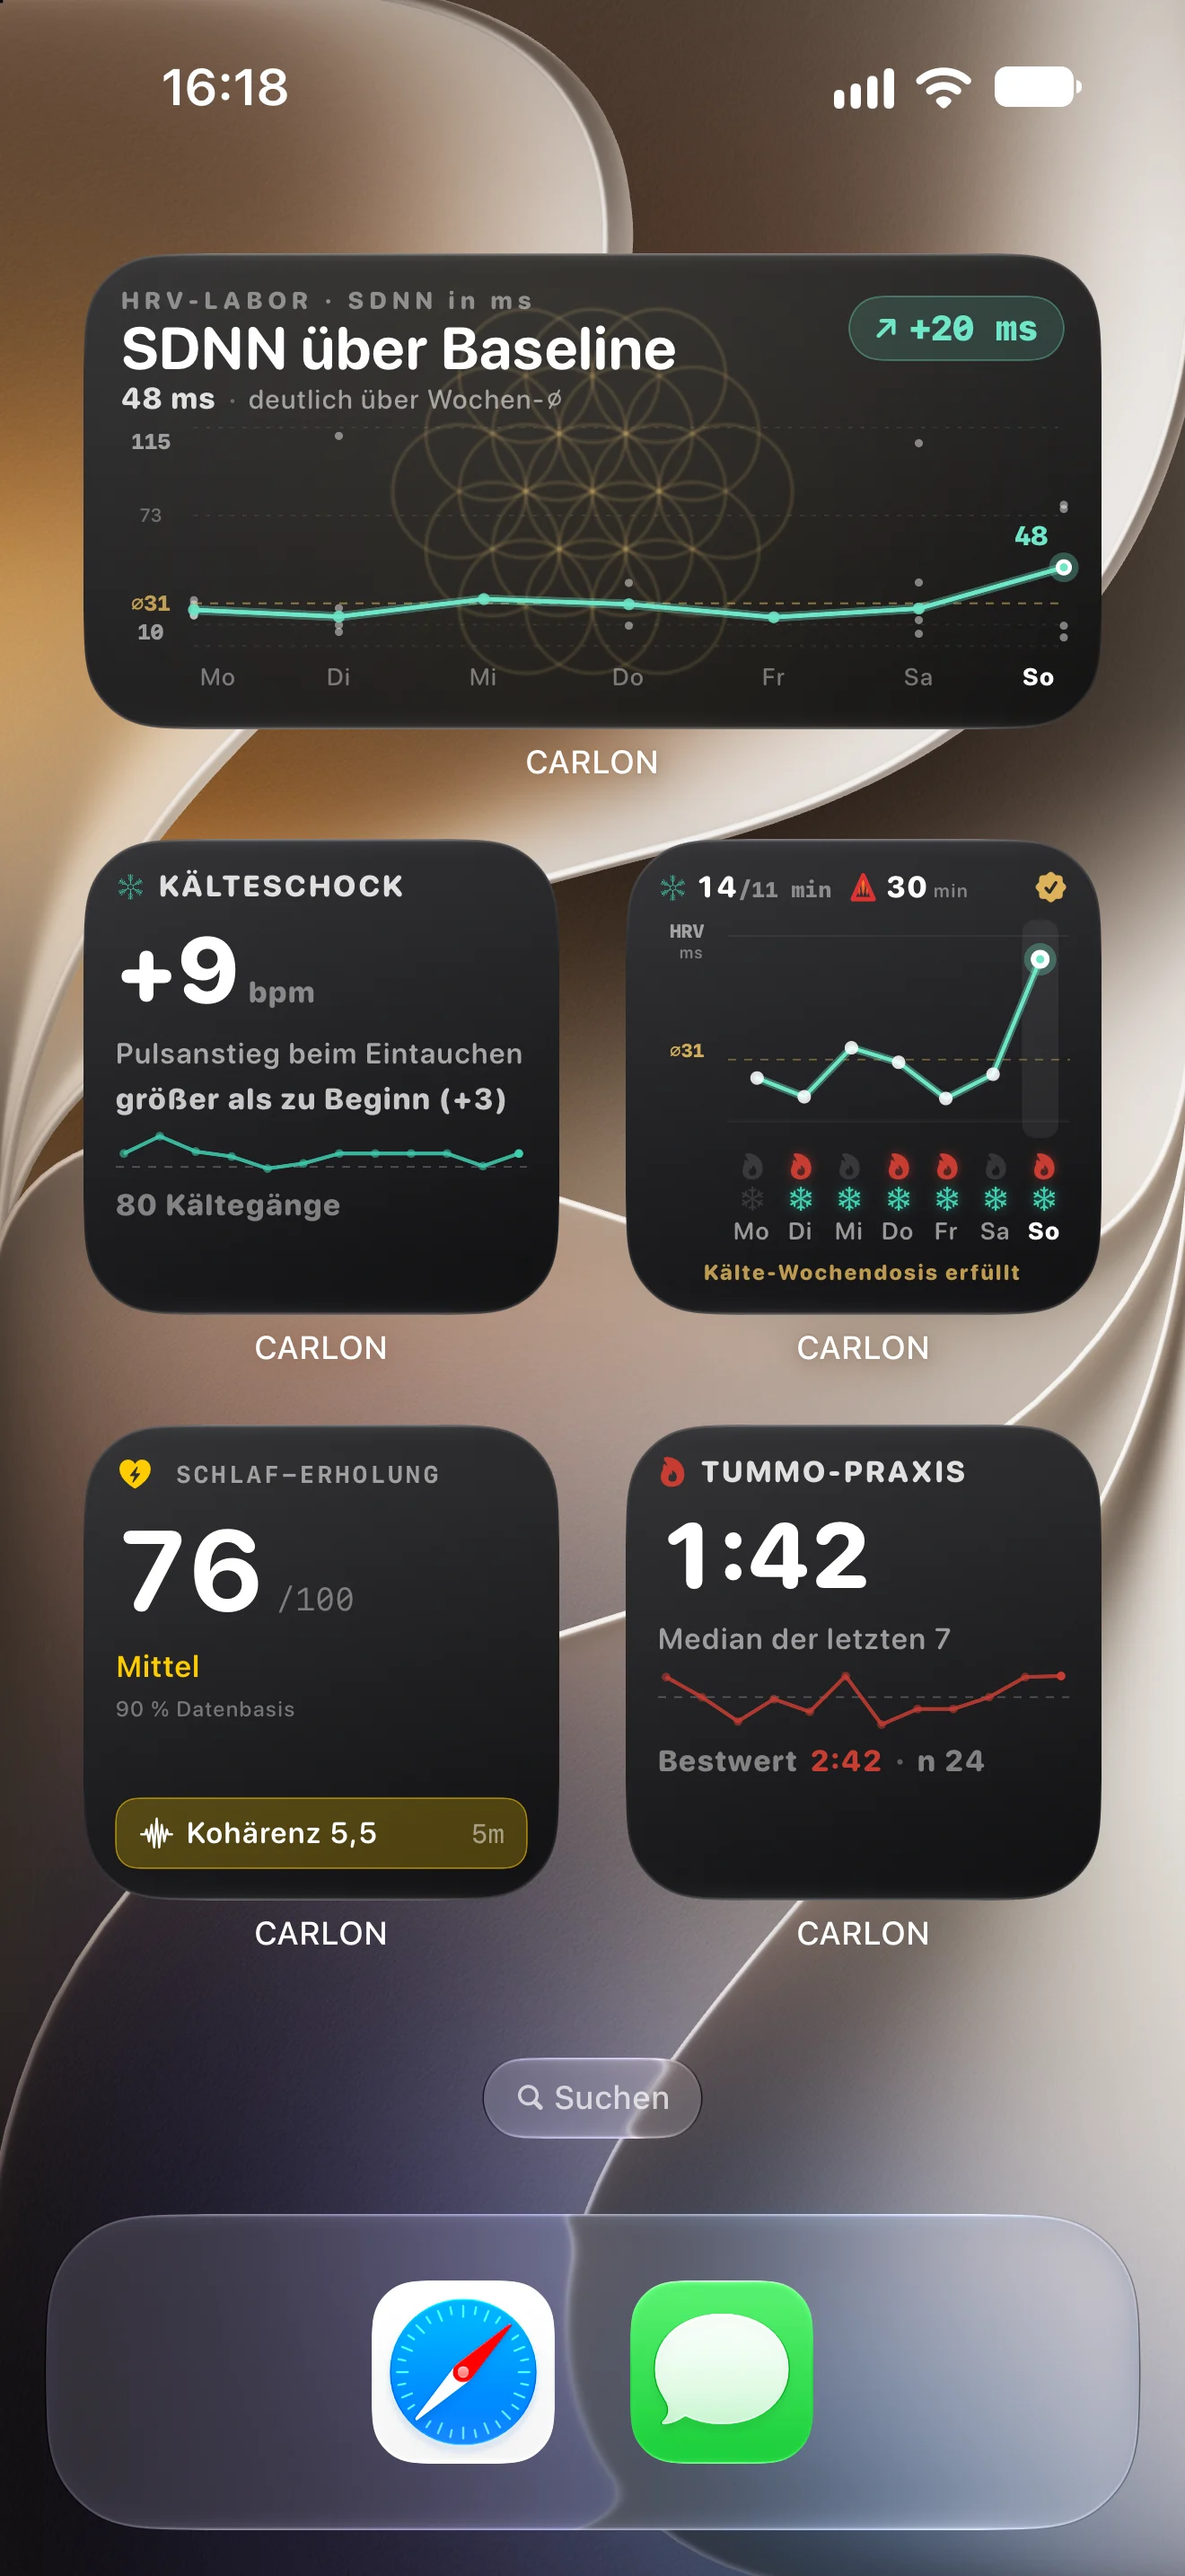
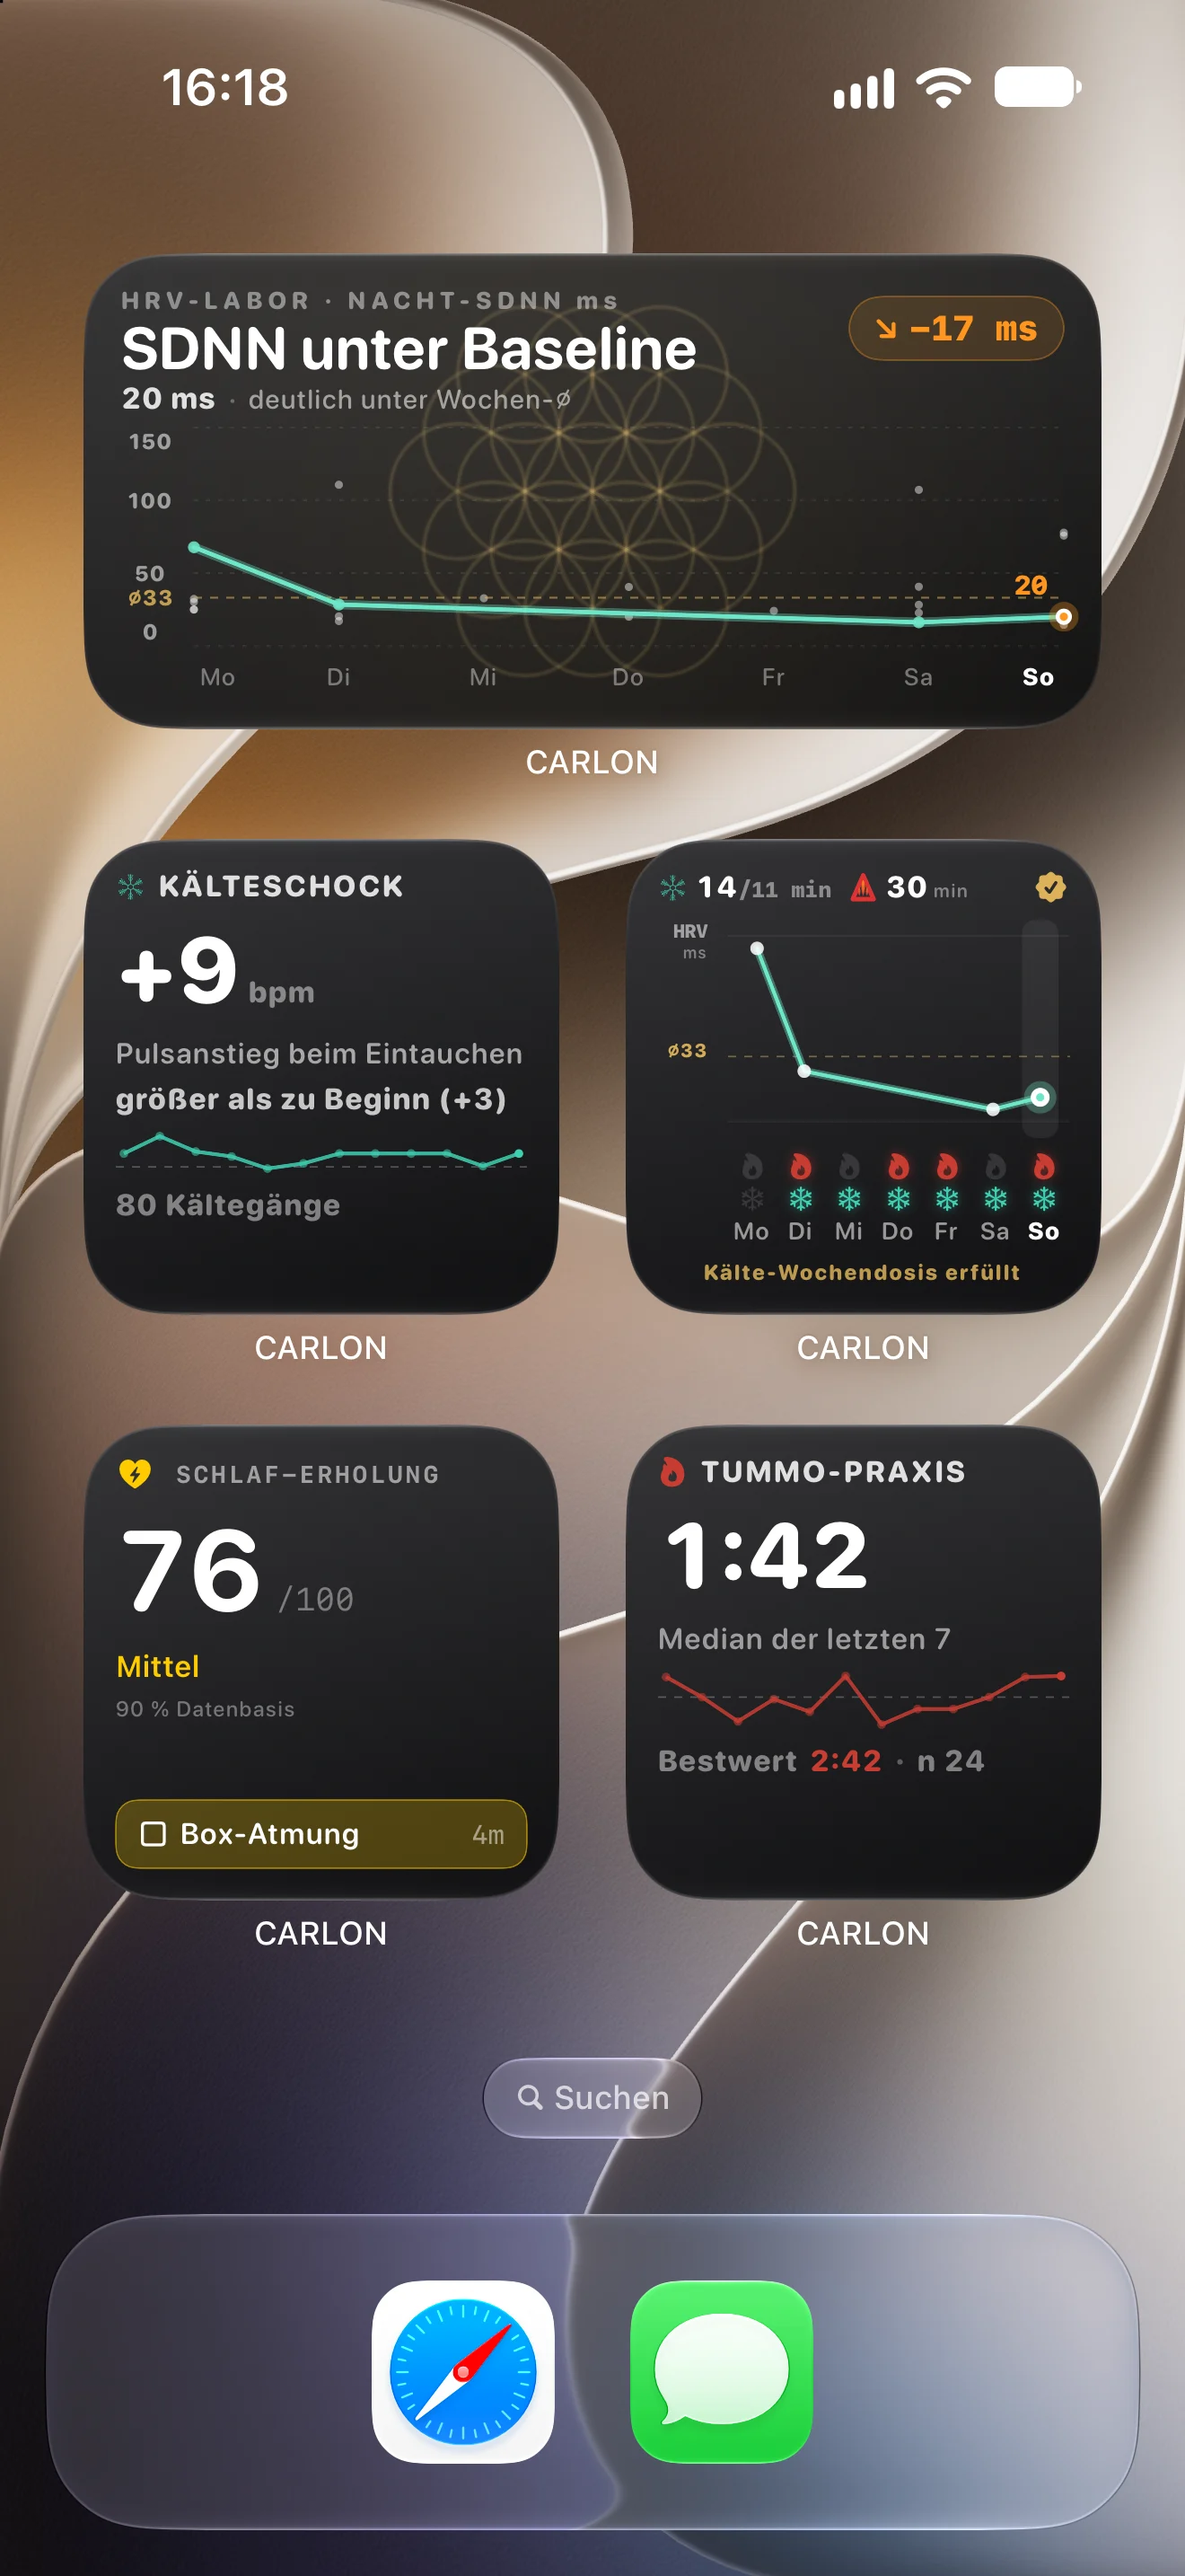
Breathwork: iPhone-Widgets EN+DE und Zifferblatt EN neu (Widget-Stand cdb480de)
Widgets mit Breathworks Überarbeitung: HRV-Labor in ms gegen die Vortage statt σ, ein Nacht-HRV-Wert
für alle Widgets, runde Achsen, eine gemeinsame Übungsempfehlung. Zifferblatt EN zur echten 16:18
aufgenommen (Zeitzone, keine eingesetzte Uhrzeit), HRV-Komplikation „20 · −17 ms“. Bildtexte angepasst.

Claude-Session: https://claude.ai/code/session_017FwWe4kkzgBzu5cqoj5Xmm

diff --git a/breathwork/index.html b/breathwork/index.html
@@ -1171,8 +1171,8 @@ document.head.appendChild(s);})();</script>
       <div class="label" data-en="Every day" data-de="Im Alltag">Every day</div>
       <h2 data-en="Your practice, <em>part of your day.</em>" data-de="Deine Praxis, <em>Teil deines Tages.</em>">Your practice, <em>part of your day.</em></h2>
       <p class="sub" data-en="CARLON lives where you already look – so the habit builds by itself." data-de="CARLON sitzt dort, wo du ohnehin hinschaust – so wächst die Gewohnheit von selbst.">CARLON lives where you already look – so the habit builds by itself.</p>
-      <div class="geraete-paar rv">      <figure class="uhr-einzeln"><div class="at-device at-uhr"><div class="at-screen"><div class="at-scr on"><img loading="lazy" decoding="async" src="assets/v2/zifferblatt-coach.en.webp?v=3ed25891d6" width="422" height="514" alt="An Apple Watch Ultra face at 16:18 with CARLON complications: the Breath Coach suggests box breathing, 9 minutes to settle down, next to pulse 101 and HRV 29 ms; around it sleep recovery 75, HRV 48 ms, breathing rate 5.5 per minute and 27 of 30 practice days" data-alt-de="Zifferblatt der Apple Watch Ultra um 16:18 mit CARLON-Komplikationen: Der Atem-Coach schlägt Box-Atmung vor, 9 Minuten zum Ruhigerwerden, daneben Puls 101 und HRV 29 ms; rundum Schlaf-Erholung 75, HRV 48 ms, Atemfrequenz 5,5 pro Minute und 27 von 30 Praxistagen"></div></div><img decoding="async" loading="lazy" class="at-bezel" src="assets/v2/watch-ultra3.webp?v=4899c4cc5a" width="600" height="960" alt=""></div></figure>
-<figure class="home-phone"><div class="home-ausschnitt"><div class="at-device iphone"><div class="at-screen"><div class="at-scr on"><img loading="lazy" decoding="async" src="assets/v2/home-widgets.en.webp?v=9fd890246e" width="1320" height="2868" alt="An iPhone home screen with five CARLON widgets: HRV lab, cold shock +9 bpm, cold and Tummo week with the weekly cold dose met, sleep recovery 76 with a suggested coherence session, Tummo practice 1:42" data-alt-de="Ein iPhone-Home-Bildschirm mit fünf CARLON-Widgets: HRV-Labor, Kälteschock +9 bpm, Kälte- und Tummo-Woche mit erfüllter Kälte-Wochendosis, Schlaf-Erholung 76 mit vorgeschlagener Kohärenz-Sitzung, Tummo-Praxis 1:42"></div></div><img decoding="async" loading="lazy" class="at-bezel" src="/assets/app-tour/iphone-18-pro-max-black.webp" width="735" height="1500" alt=""></div></div></figure></div>
+      <div class="geraete-paar rv">      <figure class="uhr-einzeln"><div class="at-device at-uhr"><div class="at-screen"><div class="at-scr on"><img loading="lazy" decoding="async" src="assets/v2/zifferblatt-coach.en.webp?v=19da8a318f" width="422" height="514" alt="An Apple Watch Ultra face at 16:18 with CARLON complications: the Breath Coach suggests box breathing, 9 minutes for a clear head, next to pulse 100 and HRV 29 ms; around it sleep recovery 75, night HRV 20 ms – 17 ms below the previous days, breathing rate 5.5 per minute and 27 of 30 practice days" data-alt-de="Zifferblatt der Apple Watch Ultra um 16:18 mit CARLON-Komplikationen: Der Atem-Coach schlägt Box-Atmung vor, 9 Minuten zum Ruhigerwerden, daneben Puls 101 und HRV 29 ms; rundum Schlaf-Erholung 75, HRV 48 ms, Atemfrequenz 5,5 pro Minute und 27 von 30 Praxistagen"></div></div><img decoding="async" loading="lazy" class="at-bezel" src="assets/v2/watch-ultra3.webp?v=4899c4cc5a" width="600" height="960" alt=""></div></figure>
+<figure class="home-phone"><div class="home-ausschnitt"><div class="at-device iphone"><div class="at-screen"><div class="at-scr on"><img loading="lazy" decoding="async" src="assets/v2/home-widgets.en.webp?v=b79f449cdf" width="1320" height="2868" alt="An iPhone home screen with five CARLON widgets: HRV lab with night SDNN 20 ms, 17 ms below the weekly baseline, cold shock +9 bpm, cold and Tummo week with the weekly cold dose met, sleep recovery 76 with a suggested box breathing session, Tummo practice 1:42" data-alt-de="Ein iPhone-Home-Bildschirm mit fünf CARLON-Widgets: HRV-Labor mit Nacht-SDNN 20 ms, 17 ms unter der Wochen-Baseline, Kälteschock +9 bpm, Kälte- und Tummo-Woche mit erfüllter Kälte-Wochendosis, Schlaf-Erholung 76 mit vorgeschlagener Box-Atmung, Tummo-Praxis 1:42"></div></div><img decoding="async" loading="lazy" class="at-bezel" src="/assets/app-tour/iphone-18-pro-max-black.webp" width="735" height="1500" alt=""></div></div></figure></div>
       <ul class="points coach-punkte rv">
         <li data-en="<b>The Breath Coach complication on your watch face</b> shows which technique fits right now and for how long – chosen from your personal HRV band, your resting pulse and the time of day. One tap starts it." data-de="<b>Die Komplikation „Atem-Coach“ auf deinem Zifferblatt</b> zeigt dir, welche Technik jetzt passt und wie lange – gewählt nach deinem persönlichen HRV-Band, deinem Ruhepuls und der Tageszeit. Ein Tipp startet sie."><b>The Breath Coach complication on your watch face</b> shows which technique fits right now and for how long – chosen from your personal HRV band, your resting pulse and the time of day. One tap starts it.</li>
         <li data-en="<b>Your favourite, one tap away:</b> complications for coherence, Tummo and cold – and one that simply starts the app." data-de="<b>Deine Lieblingstechnik, einen Tipp entfernt:</b> Komplikationen für Kohärenz, Tummo und Kälte – und eine, die einfach die App startet."><b>Your favourite, one tap away:</b> complications for coherence, Tummo and cold – and one that simply starts the app.</li>

diff --git a/breathwork/de/index.html b/breathwork/de/index.html
@@ -1172,7 +1172,7 @@ document.head.appendChild(s);})();</script>
       <h2 data-en="Your practice, <em>part of your day.</em>" data-de="Deine Praxis, <em>Teil deines Tages.</em>">Deine Praxis, <em>Teil deines Tages.</em></h2>
       <p class="sub" data-en="CARLON lives where you already look – so the habit builds by itself." data-de="CARLON sitzt dort, wo du ohnehin hinschaust – so wächst die Gewohnheit von selbst.">CARLON sitzt dort, wo du ohnehin hinschaust – so wächst die Gewohnheit von selbst.</p>
       <div class="geraete-paar rv">      <figure class="uhr-einzeln"><div class="at-device at-uhr"><div class="at-screen"><div class="at-scr on"><img loading="lazy" decoding="async" src="../assets/v2/zifferblatt-coach.de.webp?v=832ac4a8b6" width="422" height="514" alt="Zifferblatt der Apple Watch Ultra um 16:18 mit CARLON-Komplikationen: Der Atem-Coach schlägt Box-Atmung vor, 9 Minuten zum Ruhigerwerden, daneben Puls 101 und HRV 29 ms; rundum Schlaf-Erholung 75, HRV 48 ms, Atemfrequenz 5,5 pro Minute und 27 von 30 Praxistagen" data-alt-de="Zifferblatt der Apple Watch Ultra um 16:18 mit CARLON-Komplikationen: Der Atem-Coach schlägt Box-Atmung vor, 9 Minuten zum Ruhigerwerden, daneben Puls 101 und HRV 29 ms; rundum Schlaf-Erholung 75, HRV 48 ms, Atemfrequenz 5,5 pro Minute und 27 von 30 Praxistagen"></div></div><img decoding="async" loading="lazy" class="at-bezel" src="../assets/v2/watch-ultra3.webp?v=4899c4cc5a" width="600" height="960" alt=""></div></figure>
-<figure class="home-phone"><div class="home-ausschnitt"><div class="at-device iphone"><div class="at-screen"><div class="at-scr on"><img loading="lazy" decoding="async" src="../assets/v2/home-widgets.de.webp?v=6bb29d8575" width="1320" height="2868" alt="Ein iPhone-Home-Bildschirm mit fünf CARLON-Widgets: HRV-Labor, Kälteschock +9 bpm, Kälte- und Tummo-Woche mit erfüllter Kälte-Wochendosis, Schlaf-Erholung 76 mit vorgeschlagener Kohärenz-Sitzung, Tummo-Praxis 1:42" data-alt-de="Ein iPhone-Home-Bildschirm mit fünf CARLON-Widgets: HRV-Labor, Kälteschock +9 bpm, Kälte- und Tummo-Woche mit erfüllter Kälte-Wochendosis, Schlaf-Erholung 76 mit vorgeschlagener Kohärenz-Sitzung, Tummo-Praxis 1:42"></div></div><img decoding="async" loading="lazy" class="at-bezel" src="/assets/app-tour/iphone-18-pro-max-black.webp" width="735" height="1500" alt=""></div></div></figure></div>
+<figure class="home-phone"><div class="home-ausschnitt"><div class="at-device iphone"><div class="at-screen"><div class="at-scr on"><img loading="lazy" decoding="async" src="../assets/v2/home-widgets.de.webp?v=a6d699c2a5" width="1320" height="2868" alt="Ein iPhone-Home-Bildschirm mit fünf CARLON-Widgets: HRV-Labor mit Nacht-SDNN 20 ms, 17 ms unter der Wochen-Baseline, Kälteschock +9 bpm, Kälte- und Tummo-Woche mit erfüllter Kälte-Wochendosis, Schlaf-Erholung 76 mit vorgeschlagener Box-Atmung, Tummo-Praxis 1:42" data-alt-de="Ein iPhone-Home-Bildschirm mit fünf CARLON-Widgets: HRV-Labor mit Nacht-SDNN 20 ms, 17 ms unter der Wochen-Baseline, Kälteschock +9 bpm, Kälte- und Tummo-Woche mit erfüllter Kälte-Wochendosis, Schlaf-Erholung 76 mit vorgeschlagener Box-Atmung, Tummo-Praxis 1:42"></div></div><img decoding="async" loading="lazy" class="at-bezel" src="/assets/app-tour/iphone-18-pro-max-black.webp" width="735" height="1500" alt=""></div></div></figure></div>
       <ul class="points coach-punkte rv">
         <li data-en="<b>The Breath Coach complication on your watch face</b> shows which technique fits right now and for how long – chosen from your personal HRV band, your resting pulse and the time of day. One tap starts it." data-de="<b>Die Komplikation „Atem-Coach“ auf deinem Zifferblatt</b> zeigt dir, welche Technik jetzt passt und wie lange – gewählt nach deinem persönlichen HRV-Band, deinem Ruhepuls und der Tageszeit. Ein Tipp startet sie."><b>Die Komplikation „Atem-Coach“ auf deinem Zifferblatt</b> zeigt dir, welche Technik jetzt passt und wie lange – gewählt nach deinem persönlichen HRV-Band, deinem Ruhepuls und der Tageszeit. Ein Tipp startet sie.</li>
         <li data-en="<b>Your favourite, one tap away:</b> complications for coherence, Tummo and cold – and one that simply starts the app." data-de="<b>Deine Lieblingstechnik, einen Tipp entfernt:</b> Komplikationen für Kohärenz, Tummo und Kälte – und eine, die einfach die App startet."><b>Deine Lieblingstechnik, einen Tipp entfernt:</b> Komplikationen für Kohärenz, Tummo und Kälte – und eine, die einfach die App startet.</li>
